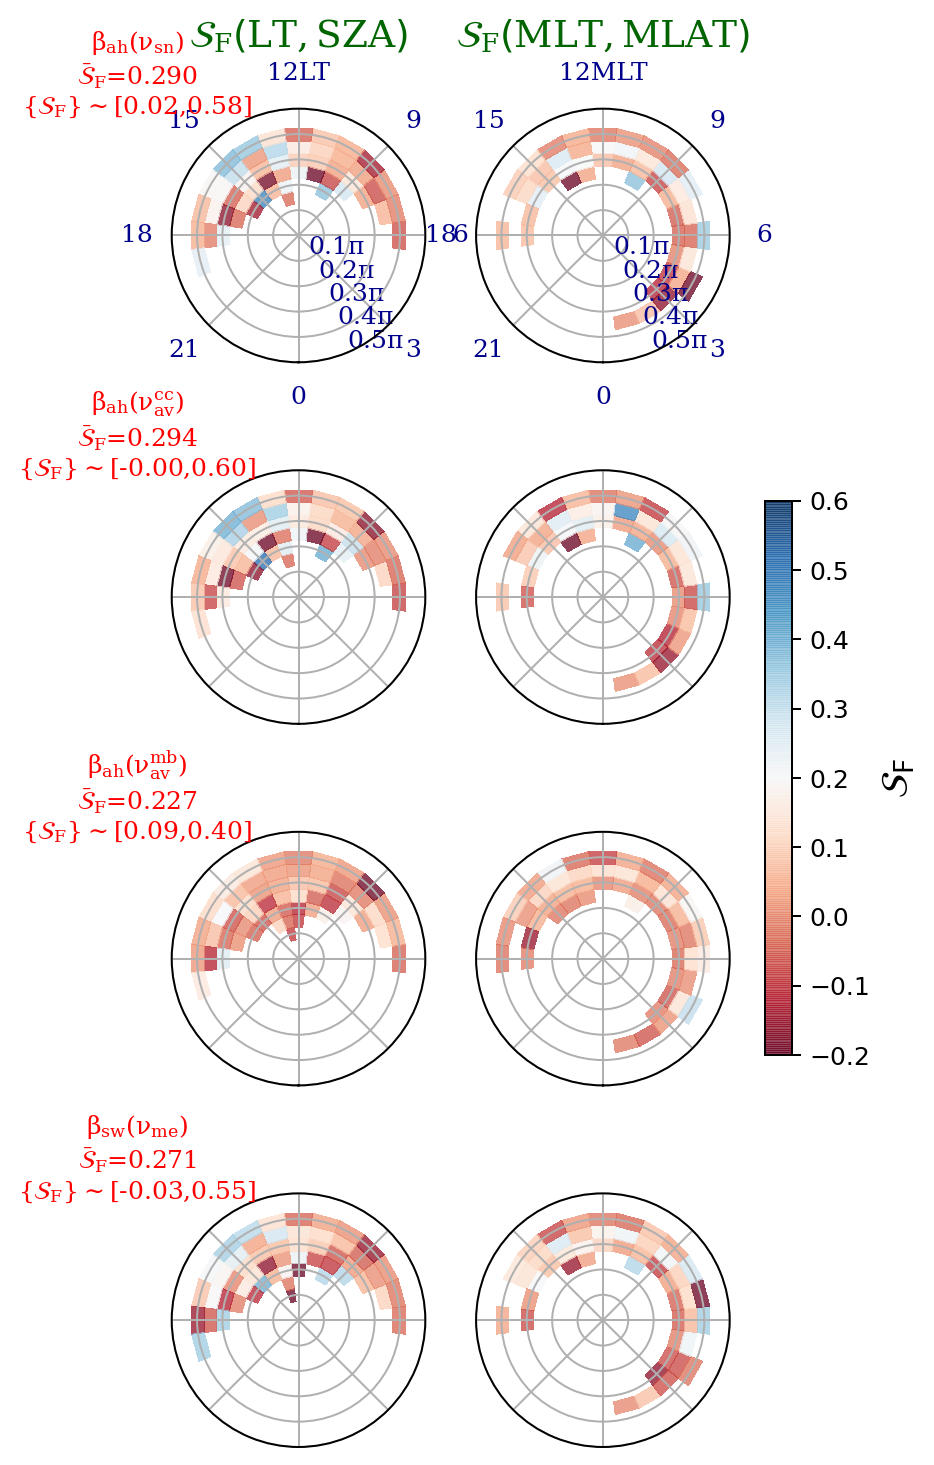
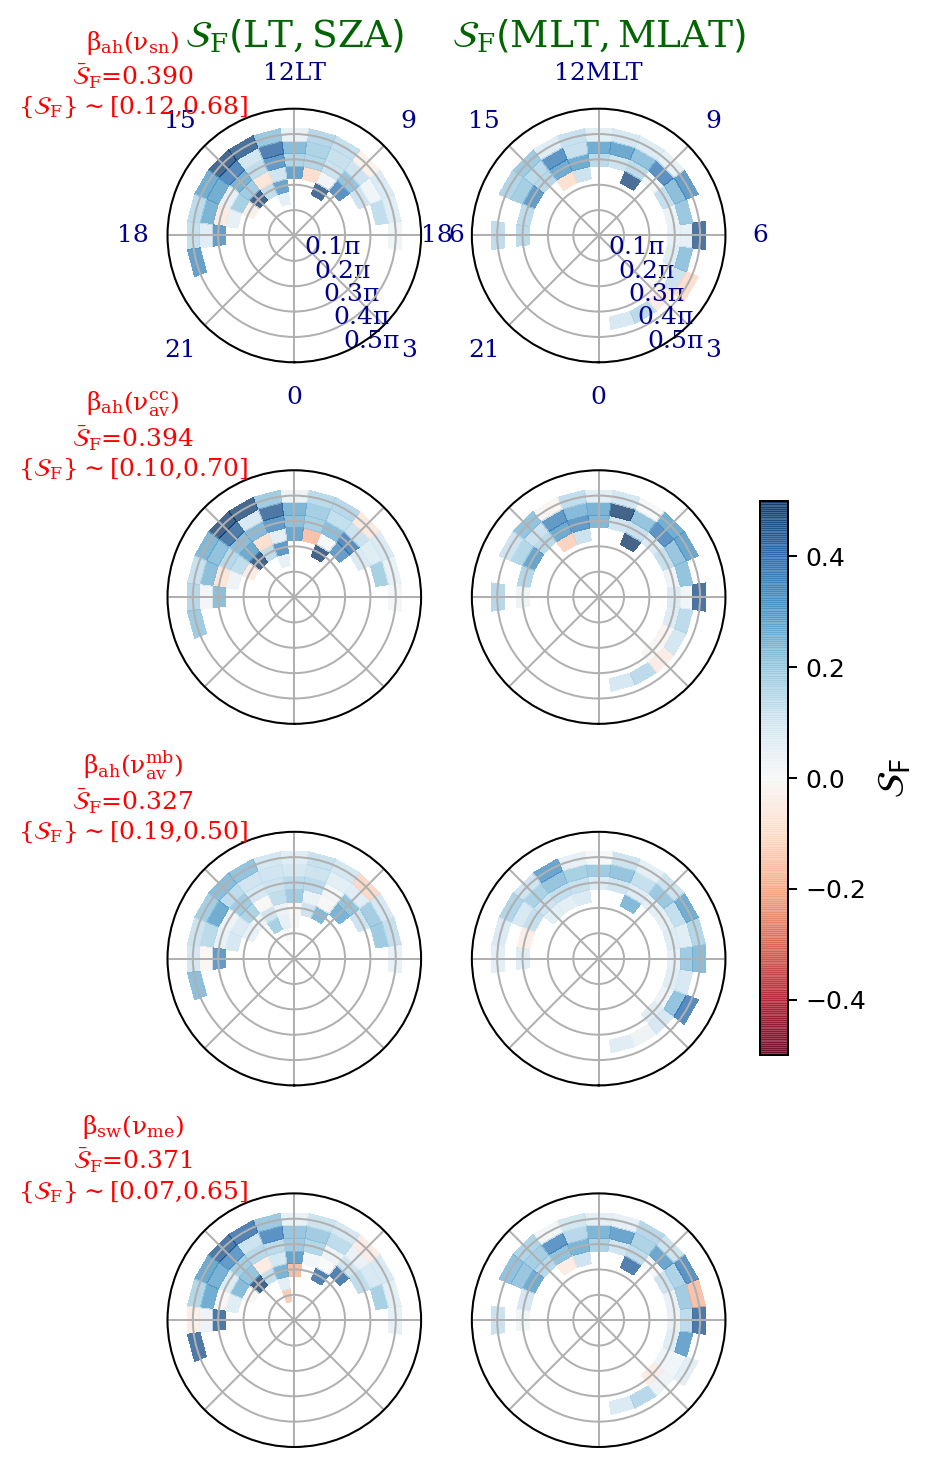
Last update

diff --git a/analytics/polarstats.py b/analytics/polarstats.py
@@ -38,7 +38,7 @@ if case == 1:
             for i in range(len(_t)-1):
                 dat = plotParamDF[(plotParamDF[r] >= _r[j]) & (plotParamDF[r] < _r[j+1])
                         & (plotParamDF[t] >= _t[i]) & (plotParamDF[t] < _t[i+1])]
-                if len(dat) > 0: Z[i,j] = dat[zv].mean()
+                if len(dat) > 0: Z[i,j] = np.array(dat[zv] + 0.1).mean()
 
         _r, _t = np.arange(0,1,1/len(_r)), np.arange(0,360,360./len(_t))
         rr, tt = np.meshgrid(_r, _t)
@@ -63,7 +63,7 @@ if case == 1:
         ax.set_rlim(0,1)
         ax.set_theta_zero_location("S")
         r, t, v, rr, tt, Z = parse_2D_data(df, "sza", "local_time", "S_"+nm)
-        im = ax.pcolormesh(np.deg2rad(tt), rr, Z, cmap="RdBu", alpha=0.75, vmax=0.6, vmin=-.2, shading="auto")
+        im = ax.pcolormesh(np.deg2rad(tt), rr, Z, cmap="RdBu", alpha=0.75, vmax=0.5, vmin=-.5, shading="auto")
         txt = labels[j] + "\n" + r"$\bar{\mathcal{S}}_F$=%.3f"%np.mean(v) + "\n" +\
                 r"$\lbrace\mathcal{S}_F\rbrace\sim$[%.2f,%.2f]"%(np.quantile(v,.025), np.quantile(v,.975))
         ax.text(np.deg2rad(225),1.8, txt, ha="center", va="center", fontdict=fonttext)
@@ -79,7 +79,7 @@ if case == 1:
         ax.set_rlim(0,1)
         ax.set_theta_zero_location("S")
         r, t, v, rr, tt, Z = parse_2D_data(df, "mlat", "mlt", "S_"+nm)
-        im = ax.pcolormesh(np.deg2rad(tt), rr, Z, cmap="RdBu", alpha=0.75, vmax=.6, vmin=-.2, shading="auto")
+        im = ax.pcolormesh(np.deg2rad(tt), rr, Z, cmap="RdBu", alpha=0.75, vmax=.5, vmin=-.5, shading="auto")
         txt = labels[j] + "\n" + r"$\bar{\mathcal{S}}_F$=%.3f"%np.mean(v) + "\n" +\
                 r"$\mathcal{S}_F\sim$[%.2f,%.2f]"%(np.quantile(v,.025), np.quantile(v,.975))
         ax.grid(True)
